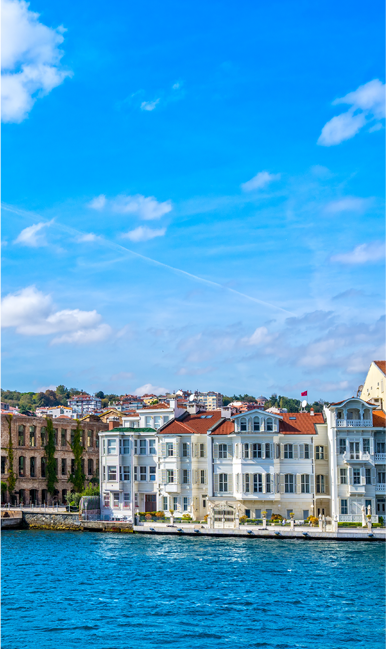
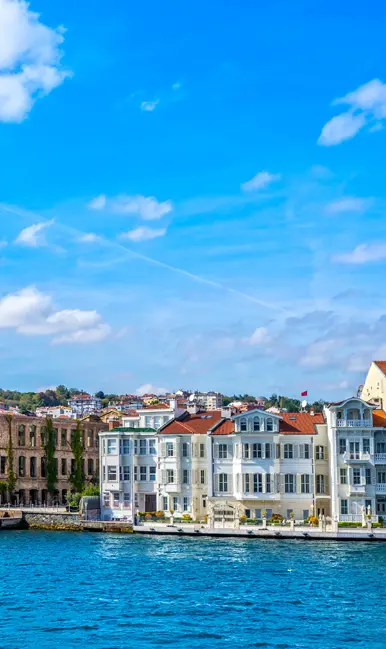
change image size

diff --git a/css/style.css b/css/style.css
@@ -112,7 +112,7 @@ ul.nav-social>li i {
 /* start images */
 
 .images .card-group .card .card-img {
-  height: 490px;
+  /* height: 490px; */
   border-radius: 0;
   -webkit-border-radius: 0;
   -moz-border-radius: 0;
@@ -130,12 +130,12 @@ ul.nav-social>li i {
 
   /* Small Screen Rules*/
   .images .card-group .card .card-img {
-    height: 205px;
+    /* height: 205px; */
   }
 
-  .images .card-group .card .card-img-overlay {
+  /* .images .card-group .card .card-img-overlay {
     bottom: 23%;
-  }
+  } */
 
   .images .card-group .card .card-img-overlay .card-title {
     font-size: 13px

diff --git a/index.html b/index.html
@@ -83,7 +83,7 @@
   <!-- /.nav-bar -->
   <!-- end navbar -->
   <section class="images mb-5 mt-3">
-    <div class="container-fluid">
+    <div class="container-fluid pl-0 pr-0">
       <div class="card-group">
         <div class="card border-0 text-white">
           <img src="img/Layer_1.webp" class="img-fluid card-img" alt="Malta">
